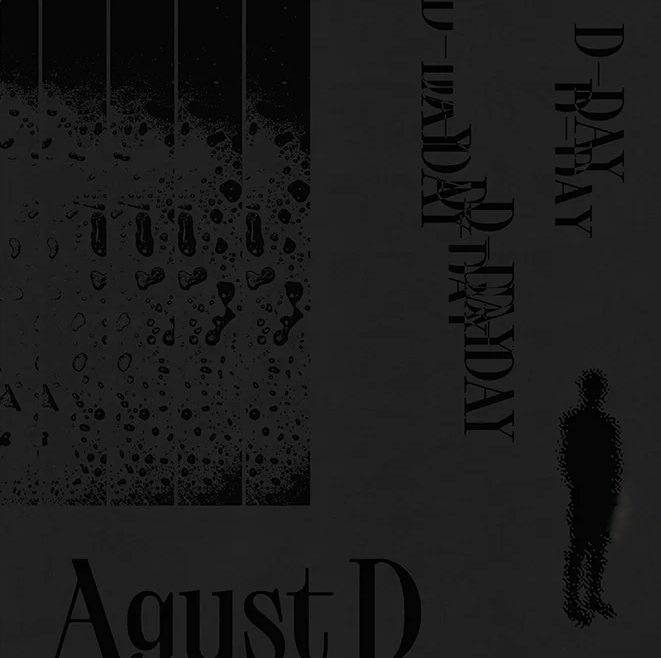
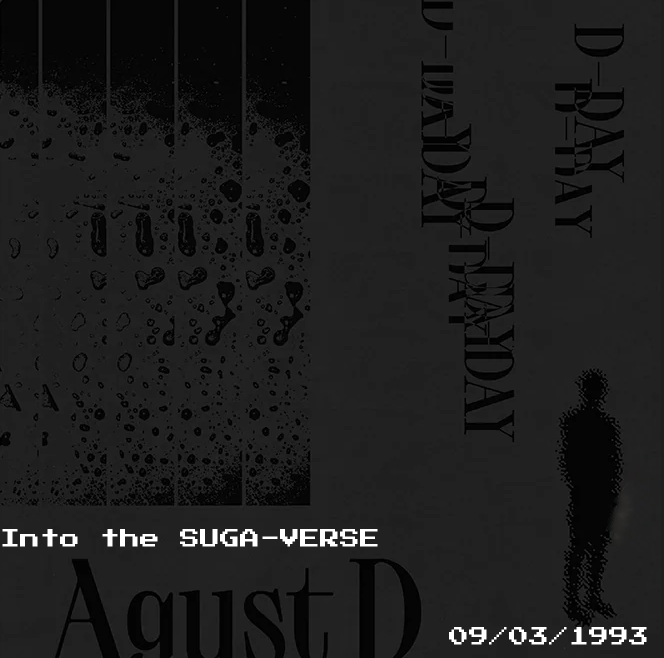
edit images

diff --git a/src/Card/CardInside.jsx b/src/Card/CardInside.jsx
@@ -18,7 +18,7 @@ const dicImg = {
 const styles = {
   dday: {
     div1: "{`justify-center bg-no-repeat bg-center bg-contain block px-16 pb-40 pt-20 max-ms:p-20`}",
-    div3: "text-white text-sm tracking-tight pb-20 ",
+    div3: "text-white text-sm tracking-tight pb-20  ",
     p: "text-white float-end ",
   },
     d2: {
@@ -34,7 +34,7 @@ const styles = {
   pp2: {
     div1: "{`justify-center bg-no-repeat bg-center bg-contain block px-16 pt-40 pb-32 max-ms:p-20`}",
     div3: "backdrop-blur-sm bg-white/30 text-black text-sm tracking-tight pt-10 text-justify max-md:pt-5 max-sm:pt-5 max-sm:pb-10 max-sm:pr-2 max-md:pr-15 max-sm:text-xs",
-    p: "text-black float-end pt-16 max-sm:pt-none pr-0 max-md:pt-5 max-sm:pt-0 max-sm:text-xs",
+    p: "text-white float-end pt-4 max-sm:pt-none pr-0 max-md:pt-5 max-sm:pt-0 max-sm:text-xs",
   },
    hgm: {
     div1: "{`justify-center bg-no-repeat bg-center bg-contain block px-16 pb-40 pt-32 max-ms:p-20`}",
@@ -71,8 +71,7 @@ export default function CardInside({
         <>
           <div ref={elementRef}>
             <div className={styles[diseño].div1}
-             style={{backgroundImage:`url(${dicImg[diseño]})`}}
-            >
+             style={{backgroundImage:`url(${dicImg[diseño]})`}}>
               <div className="p-0">
                 <div className={styles[diseño].div3}
                 >

diff --git a/src/Botones/Buttons.jsx b/src/Botones/Buttons.jsx
@@ -37,7 +37,7 @@ export default function Buttons({ htmlToImageConvert, handleLogout}) {
       <button 
       className="w-full bg-white text-black cursor-pointer p-3 font-bold font-pixel ">
         <a
-          href="https://twitter.com/intent/tweet?text=Happy%20Suga%20day&url=https://yoongi-project.vercel.app/&hashtags=VerseForSuga&hashtags=PoetryForSuga&hashtags=intothesugaverse&hashtags=IntoTheSugaVerse&hashtags=verseforsugabyarmy&hashtags=VerseForSuga
+          href="https://twitter.com/intent/tweet?text=Happy%20Suga%20day&url=https://open.spotify.com/artist/5RmQ8k4l3HZ8JoPb4mNsML/&hashtags=VerseForSuga&hashtags=PoetryForSuga&hashtags=intothesugaverse&hashtags=IntoTheSugaVerse&hashtags=verseforsugabyarmy&hashtags=VerseForSuga
         "
           target="_blank"
         >

diff --git a/index.html b/index.html
@@ -2,9 +2,9 @@
 <html lang="en">
   <head>
     <meta charset="UTF-8" />
-    <link rel="icon" type="image/svg+xml" href="/suga2.png" />
+    <link rel="icon" type="image/svg+xml" href="/src/assets/suga2.png" />
     <meta name="viewport" content="width=device-width, initial-scale=1.0" />
-    <title>Yoongis</title>
+    <title>SUGA-VERSE</title>
   </head>
   <body 
    style="background-image: url(/src/assets/bg.gif);"

diff --git a/src/ListadoDiseños/List.jsx b/src/ListadoDiseños/List.jsx
@@ -20,7 +20,7 @@ export default function List({ design, setDesign }) {
           <option value="dday">D-Day</option>
           <option value="d2">D-2</option>
           <option value="agustd">Agust D</option>
-          <option value="pp2">People PT2</option>
+          <option value="pp2">People Pt2</option>
           <option value="hgm">Haegum</option>
 
         </select>
